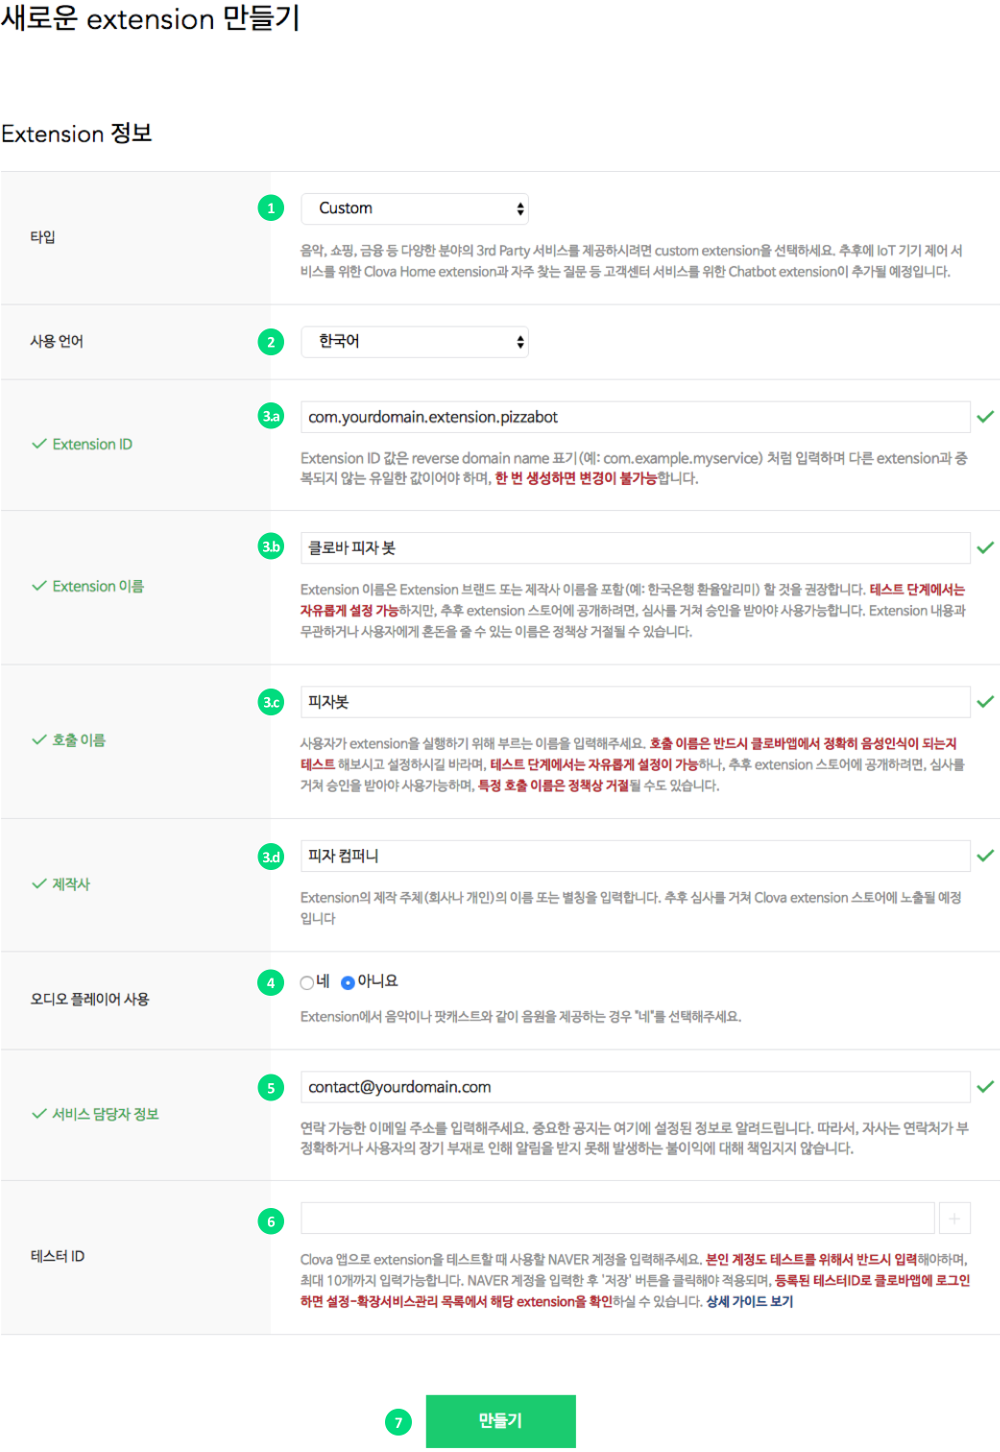
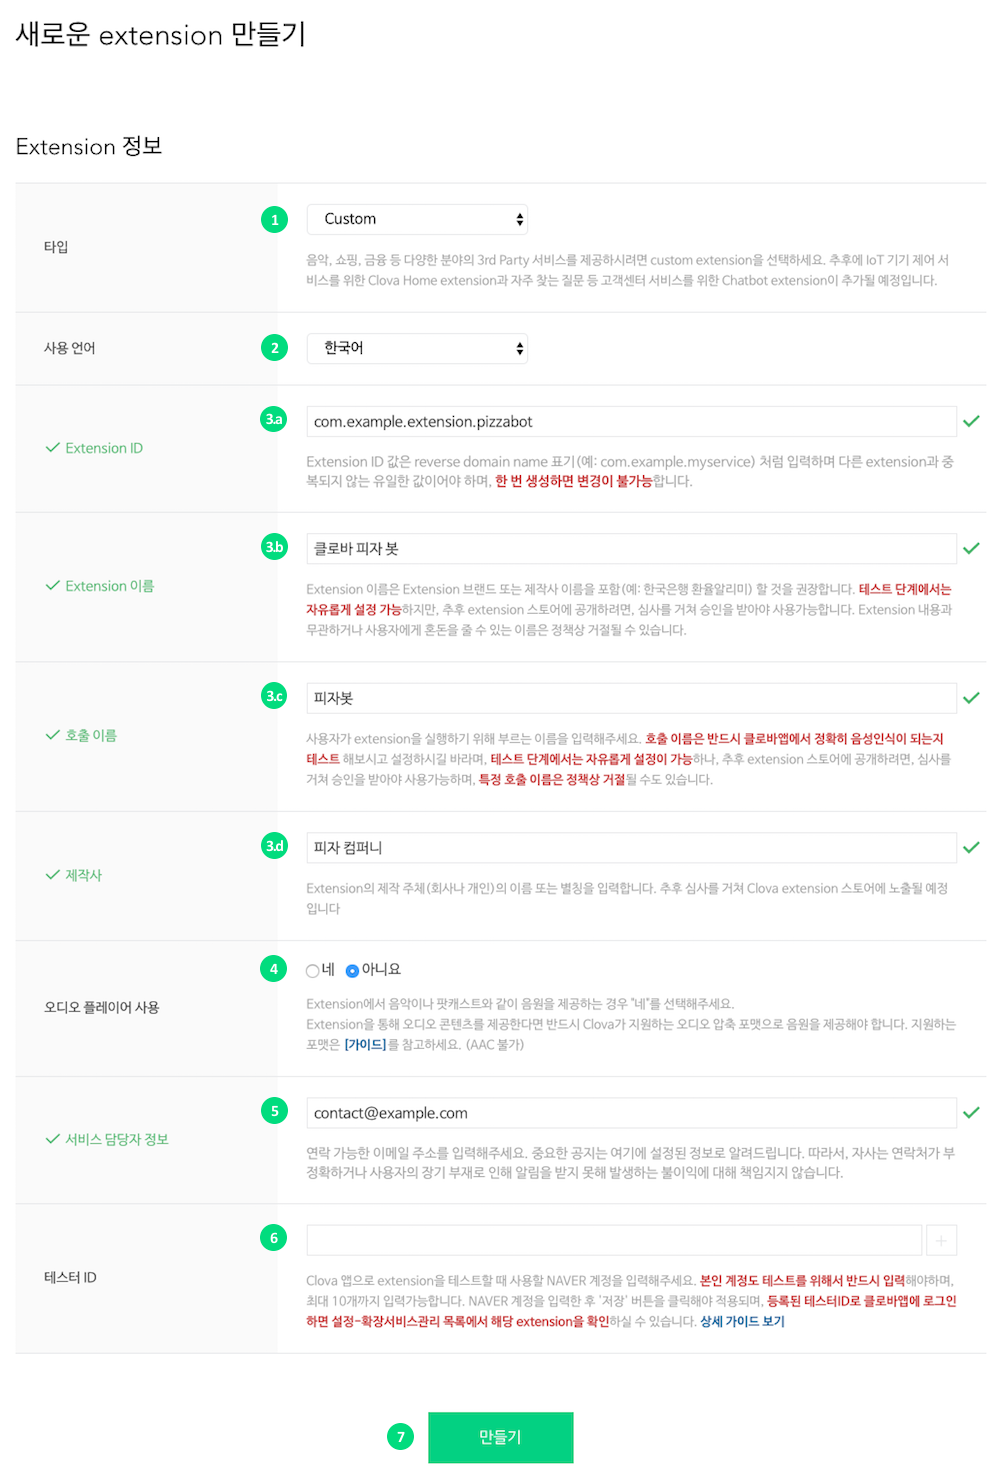
Change domain name example from 'yourdomain.com' to 'example.com'

diff --git a/ko-KR/DevConsole/Guides/CEK/Register_Extension.md b/ko-KR/DevConsole/Guides/CEK/Register_Extension.md
@@ -34,7 +34,7 @@ Extension을 등록하는 과정에서 가장 먼저 할 일은 등록할 extens
   <li><strong>{{ book.DevConsole.cek_lang }}</strong> 항목에서 extension에서 사용할 언어를 선택합니다. 현재 <strong>{{ book.DevConsole.ko_KR }}</strong>만 지원하고 있습니다.</li>
   <li>Extension의 ID, 이름, 호출 이름에 해당하는 정보를 다음 항목에 입력합니다.
     <ol>
-      <li><strong>{{ book.DevConsole.cek_id }}</strong>: Extension의 고유 ID입니다. Reverse domain name 표기 형식(예: com.yourdomain.extension.pizzabot)으로 입력합니다.</li>
+      <li><strong>{{ book.DevConsole.cek_id }}</strong>: Extension의 고유 ID입니다. Reverse domain name 표기 형식(예: com.example.extension.pizzabot)으로 입력합니다.</li>
       <li><strong>{{ book.DevConsole.cek_name }}</strong>: Extension의 이름입니다. 추후 Clova extension 스토어에 노출됩니다.</li>
       <li><strong>{{ book.DevConsole.cek_invocation_name }}</strong>: 사용자가 extension을 호출할 때 부르는 이름입니다. 일반적으로 보유하고 있는 서비스, 회사 또는 조직의 이름이 될 수 있으나 사용자의 편의 등을 위해 간결하고 특색있는 단어를 지정하는 것이 좋습니다. 범용적인 단어나 타사의 이름이나 서비스에 해당하는 용어는 사용할 수 없습니다. <strong>{{ book.DevConsole.cek_invocation_name }}</strong>은 extension 심사 시 검수받게 됩니다.</li>
       <li><strong>{{ book.DevConsole.cek_provider }}</strong>: Extension의 제작 주체(회사나 개인)의 이름 또는 별칭을 입력합니다. 추후 extension 스토어에 노출되며, extension 승인 과정에서 심사를 받게 됩니다.</li>
@@ -58,7 +58,7 @@ Extension 서버를 등록하기 전에 우선 extension 서버와 통신이 되
 
 {% raw %}
 ```bash
-$ curl "https://yourdomain.com/pizzabot" -X POST
+$ curl "https://example.com/pizzabot" -X POST
 ```
 {% endraw %}
 

diff --git a/ko-KR/Design/Design_Guideline_For_Extension.md b/ko-KR/Design/Design_Guideline_For_Extension.md
@@ -296,7 +296,7 @@ BBQ 피자 하나만 배달시켜줄래?
   "context": {
     "System": {
       "application": {
-        "applicationId": "com.yourdomain.extension.pizzabot"
+        "applicationId": "com.example.extension.pizzabot"
       },
       "user": {
         "userId": "V0qe",
@@ -340,7 +340,7 @@ BBQ 피자 하나만 배달시켜줄래?
   "context": {
     "System": {
       "application": {
-        "applicationId": "com.yourdomain.extension.pizzabot"
+        "applicationId": "com.example.extension.pizzabot"
       },
       "user": {
         "userId": "V0qe",

diff --git a/ko-KR/Document_Info.md b/ko-KR/Document_Info.md
@@ -21,6 +21,14 @@
   </thead>
   <tbody>
     <tr>
+      <td>v3.39.0</td><td>미적용</td><td>2018-09-07</td>
+      <td>
+        <ul>
+          <li>[공통] 예제 설명 중 "yourdomain.com"으로 표시된 예제를 문서 작성용 도메인 이름인 "example.com"으로 변경</li>
+        </ul>
+      </td>
+    </tr>
+    <tr>
       <td>v3.38.0</td><td>미적용</td><td>2018-08-29</td>
       <td>
         <ul>
